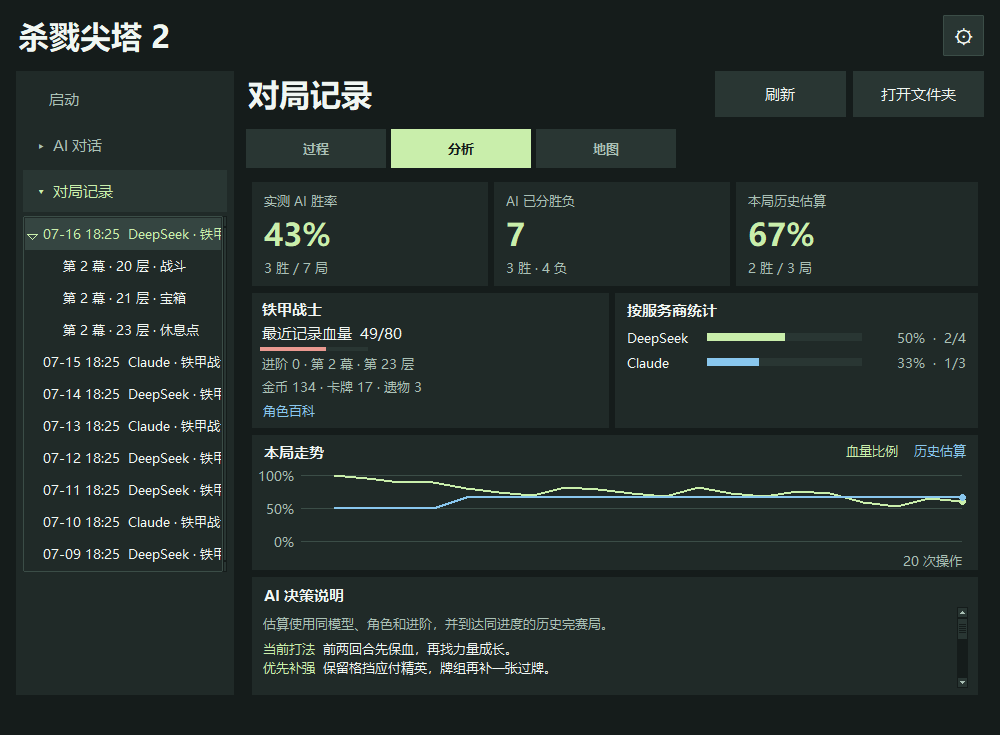
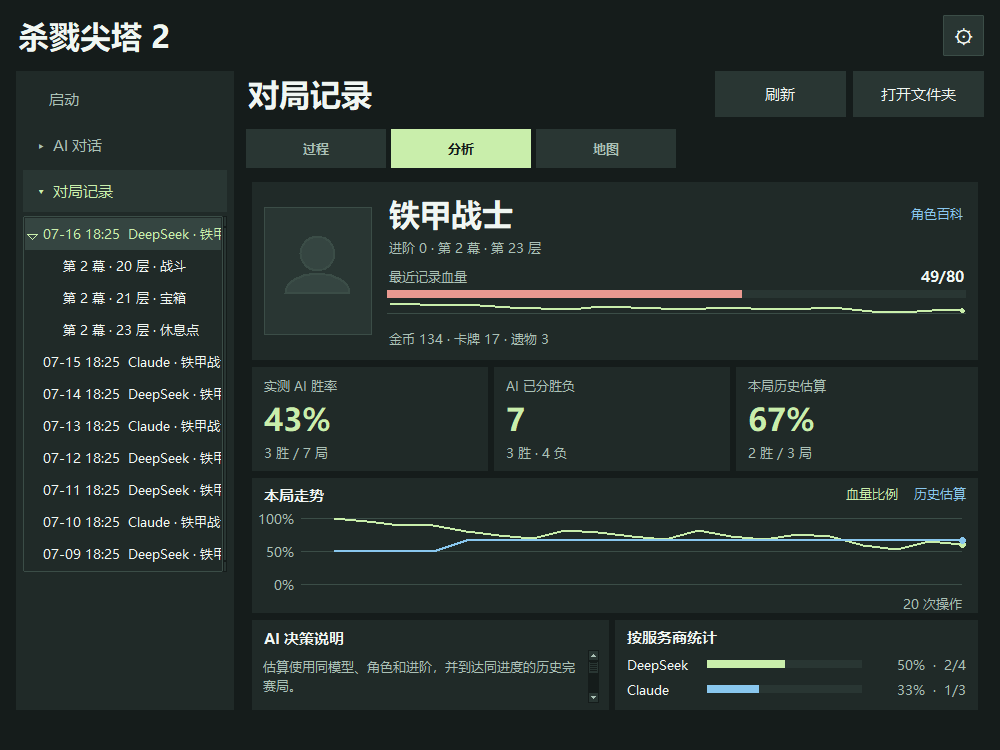
Put live character status first and extend the run map

diff --git a/python/run_map.py b/python/run_map.py
@@ -103,6 +103,7 @@ class RunMap:
     def __init__(self, parent, launcher, records, open_room):
         self.launcher, self.records, self.open_room = launcher, records, open_room
         self.folder = self.scene_folder = self.act = self.selected = None
+        self.focus_route = True
         self.chapters = {}
         self.chapter_ids = []
         filters = ttk.Frame(parent, padding=(0, 0, 0, 8))
@@ -138,6 +139,7 @@ class RunMap:
     def set_run(self, folder, scene_folder, scene):
         changed = folder != self.folder
         select_scene = scene_folder != self.scene_folder or changed
+        previous_act = self.act
         self.folder = folder
         self.scene_folder = scene_folder
         self.chapters = read_chapters(folder, self.records)
@@ -164,6 +166,7 @@ class RunMap:
                 self.act = scene["act"]
                 self.selected = next((p for p, data in self.chapters[self.act][2].items() if data[3] == scene_folder), None)
             self.acts.current(self.chapter_ids.index(self.act))
+        self.focus_route |= changed or select_scene or self.act != previous_act
         self.update_labels()
         self.draw()
         self.draw_legend()
@@ -174,7 +177,7 @@ class RunMap:
             self.act = self.chapter_ids[index]
             self.selected = None
             self.acts.selection_clear()
-            self.canvas.yview_moveto(0)
+            self.focus_route = True
             self.update_labels()
             self.draw()
 
@@ -214,34 +217,51 @@ class RunMap:
             return
         _, full, nodes, edges = chapter
         columns, rows = sorted({col for col, _ in nodes}), sorted({row for _, row in nodes})
-        content_height = max(height, 21 * len(rows) + 36)
-        pitch = min(55, (content_height - 44) / max(1, len(rows) - 1))
-        side = 55
+        content_height = max(height, 34 * len(rows) + 49)
+        pitch = min(72, (content_height - 60) / max(1, len(rows) - 1))
+        side = min(95, max(55, int(width * .12)))
         xs = {col: side + (width - 2 * side) * i / max(1, len(columns) - 1) for i, col in enumerate(columns)}
-        top = max(22, (content_height - pitch * (len(rows) - 1)) / 2)
+        top = max(30, (content_height - pitch * (len(rows) - 1)) / 2)
         ys = {row: top + pitch * i for i, row in enumerate(reversed(rows))}
         positions = {p: (xs[p[0]] if len(columns) > 1 else width / 2, ys[p[1]]) for p in nodes}
         view.configure(scrollregion=(0, 0, width, content_height))
-        for row in rows:
+        for band, row in enumerate(rows):
             floor = row + 1 if full else nodes[0, row][1]
-            view.create_text(19, ys[row], text=str(floor), fill="#A4B8AD", font=self.launcher.fonts["small"])
-            view.create_line(33, ys[row], width - 22, ys[row], fill="#253430")
+            if band % 2:
+                view.create_rectangle(0, ys[row] - pitch / 2, width, ys[row] + pitch / 2, fill="#202B28", outline="")
+            view.create_text(22, ys[row], text=str(floor), fill="#A4B8AD", font=self.launcher.fonts["small"])
+            view.create_line(43, ys[row], width - 22, ys[row], fill="#2B3A35")
         for left, right, reached in sorted(edges, key=lambda edge: edge[2]):
-            view.create_line(*positions[left], *positions[right], fill="#A4DE9D" if reached else "#536963",
-                             width=3 if reached else 1, dash=() if reached else (3, 3))
+            x1, y1 = positions[left]
+            x2, y2 = positions[right]
+            middle = (y1 + y2) / 2
+            curve = (x1, y1, x1, middle, x2, middle, x2, y2)
+            if reached:
+                view.create_line(*curve, smooth=True, fill="#3E6454", width=8)
+            view.create_line(*curve, smooth=True, fill="#C9EEAB" if reached else "#526C64",
+                             width=3 if reached else 1, dash=() if reached else (3, 4))
+        current = max((point for point, node in nodes.items() if node[2]), key=lambda point: point[1], default=None)
         for point, (room, _, reached, _) in nodes.items():
             x, y = positions[point]
             tag = f"room_{point[0]}_{point[1]}"
-            radius = 10
+            radius = 13
             outline = "#C9EEAB" if reached else "#607872"
-            if self.selected == point:
-                view.create_oval(x-14, y-14, x+14, y+14, outline="#D7F5C0", width=2, tags=tag)
+            if self.selected == point or current == point:
+                ring = "#89C7EE" if current == point else "#F8D393"
+                view.create_oval(x-17, y-17, x+17, y+17, outline=ring, width=2, tags=tag)
             view.create_oval(x-radius, y-radius, x+radius, y+radius, fill="#2E423A" if reached else "#23312D",
                              width=2 if reached else 1, outline=outline, tags=tag)
-            self.icon(room, x, y, tag)
+            self.icon(room, x, y, tag, scale=1.2)
             view.tag_bind(tag, "<Button-1>", lambda _event, point=point: self.select_node(point))
             view.tag_bind(tag, "<Enter>", lambda _event: view.configure(cursor="hand2"))
             view.tag_bind(tag, "<Leave>", lambda _event: view.configure(cursor=""))
+        if self.focus_route:
+            target = self.selected or current
+            if target in positions:
+                view.yview_moveto(max(0, (positions[target][1] - height * .57) / content_height))
+            else:
+                view.yview_moveto(0)
+            self.focus_route = False
 
     def draw_legend(self, _event=None):
         view = self.legend
@@ -260,23 +280,26 @@ class RunMap:
             view.create_text(x + 12, y, text=label, fill="#AAC0B5", font=font, anchor="w")
             x += size
 
-    def icon(self, room, x, y, tag, canvas=None):
+    def icon(self, room, x, y, tag, canvas=None, scale=1):
         canvas, color = canvas or self.canvas, COLORS[room]
+        def shape(*coords):
+            return [origin + value * scale for origin, value in zip((x, y) * (len(coords) // 2), coords)]
+
         if room == "battle":
-            canvas.create_line(x-4, y-5, x+4, y+4, x-1, y+4, fill=color, width=2, tags=tag)
-            canvas.create_line(x+4, y-5, x-4, y+4, x+1, y+4, fill=color, width=2, tags=tag)
+            canvas.create_line(*shape(-4, -5, 4, 4, -1, 4), fill=color, width=2, tags=tag)
+            canvas.create_line(*shape(4, -5, -4, 4, 1, 4), fill=color, width=2, tags=tag)
         elif room in ("elite", "boss"):
             if room == "elite":
-                canvas.create_polygon(x-5, y, x, y-5, x+5, y, x, y+5, fill=color, tags=tag)
+                canvas.create_polygon(*shape(-5, 0, 0, -5, 5, 0, 0, 5), fill=color, tags=tag)
             else:
-                canvas.create_polygon(x-5, y+3, x-6, y-4, x-2, y-1, x, y-6, x+2, y-1, x+6, y-4, x+5, y+3,
+                canvas.create_polygon(*shape(-5, 3, -6, -4, -2, -1, 0, -6, 2, -1, 6, -4, 5, 3),
                                       fill=color, tags=tag)
         elif room == "chest":
-            canvas.create_rectangle(x-5, y-4, x+5, y+4, outline=color, tags=tag)
-            canvas.create_line(x-5, y, x+5, y, fill=color, tags=tag)
-            canvas.create_line(x, y-1, x, y+2, fill=color, width=2, tags=tag)
+            canvas.create_rectangle(*shape(-5, -4, 5, 4), outline=color, tags=tag)
+            canvas.create_line(*shape(-5, 0, 5, 0), fill=color, tags=tag)
+            canvas.create_line(*shape(0, -1, 0, 2), fill=color, width=2, tags=tag)
         elif room == "rest":
-            canvas.create_polygon(x, y-6, x+5, y+1, x+2, y+5, x-3, y+5, x-5, y+1, x-2, y-3, x-1, y+2,
+            canvas.create_polygon(*shape(0, -6, 5, 1, 2, 5, -3, 5, -5, 1, -2, -3, -1, 2),
                                   fill=color, tags=tag)
         else:
             symbol = {"shop": "$", "event": "?", "start": "●"}[room]

diff --git a/README.md b/README.md
@@ -21,14 +21,14 @@ The ZIP includes Python and .NET. Manual play needs no API key. For AI play, sav
 - **Personas and languages.** Save a model, speaking style, and output language per persona. The interface and AI commentary each offer 17 languages and can be set independently.
 - **Local saves.** Detect or set a save folder from the gear menu, then select a save on the launch page.
 - **AI chat and run history.** Expand either view from the sidebar. Each run has its own archive, with separate folders for encounters, chests, rest sites, and other rooms.
-- **Run maps.** Switch between runs and acts, follow the highlighted route, and open a visited room's record from its map icon.
-- **Character and run analysis.** See the last recorded HP, gold, deck size, relic count, and portrait from your local Steam install. The charts show health over time and historical win rates from comparable local runs.
+- **Run maps.** Switch between runs and acts, follow the highlighted route on a scrollable map, and open a visited room's record from its icon.
+- **Character and run analysis.** The top panel shows the portrait, current HP and recent health changes, gold, deck size, and relic count. Analysis updates while a selected run is in progress. Historical charts appear below.
 
 ## Screenshots
 
 The conversations, runs, and statistics below use sample data.
 
-![Run analysis showing win and loss counts, an HP timeline, and an estimate by progress](docs/screenshots/analysis-en.png)
+![Run analysis with the character, health bar, and recent HP at the top and historical charts below](docs/screenshots/analysis-en.png)
 
 ![Run map showing alternate branches, room icons, and the route already taken](docs/screenshots/map-en.png)
 
